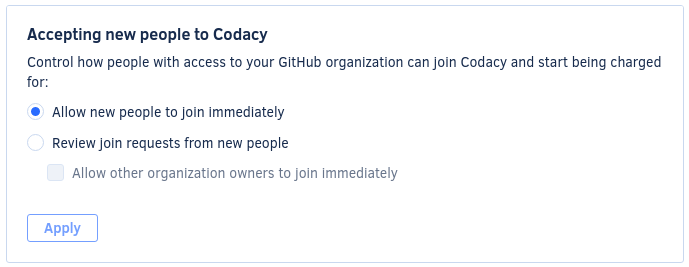
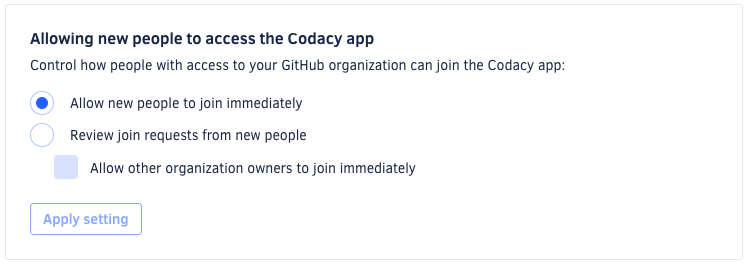
clean: Update screenshots and tweaked the sentences related to the new enterprise plan

diff --git a/docs/organizations/changing-your-plan-and-billing.md b/docs/organizations/changing-your-plan-and-billing.md
@@ -7,7 +7,7 @@ Each organization on Codacy has a dedicated plan and associated billing. To make
     **If you're using GitHub Marketplace,** make changes to your billing details or cancel your plan directly on your [GitHub Billing page](https://github.com/settings/billing).
 <!--github-marketplace-end-->
 
-![Plan and billing for a Codacy organization](images/organization-plan-billing.png) <!--TODO: Update image-->
+![Plan and billing for a Codacy organization](images/organization-plan-billing.png)
 
 -   **To upgrade** to the Pro plan click **Choose plan**, choose between monthly or yearly billing, and provide your payment and invoice details
 
@@ -22,7 +22,7 @@ If you have any questions or need help with your account, please contact <mailto
 !!! note
     -   **If you're using GitHub Marketplace,** this configuration isn't available and team members must always wait for an organization owner to manually approve their requests to join the organization.
 
-    -   In some **Enterprise plans**, Codacy automatically adds to the organization new people that commit on your private repositories. However, you still need to allow them to join  the Codacy app.
+    -   In some **Enterprise plans**, Codacy automatically adds to the organization new people that commit on your private repositories. However, they still need to join the organization on the Codacy app if they want to use the UI.
 
 Choose one of the following options in your organization **Settings**, page **Plan and billing**:
 
@@ -30,6 +30,6 @@ Choose one of the following options in your organization **Settings**, page **Pl
 
 -   **Review join requests from new people:** when team members with access to the organization on the Git provider join the organization on Codacy app, an organization owner must manually approve their requests to join on the page **People**.
 
-    Team members that have already been invited to join the organization are automatically approved, and you can also skip the approval process for organization owners.
+    Team members that have already been invited to join or were added to the organization are automatically approved, and you can also skip the approval process for organization owners.
 
-![Accepting new people to the organization](images/organization-plan-billing-people-accept.png) <!--TODO: Update image-->
+![Accepting new people to the organization](images/organization-plan-billing-people-accept.png)
